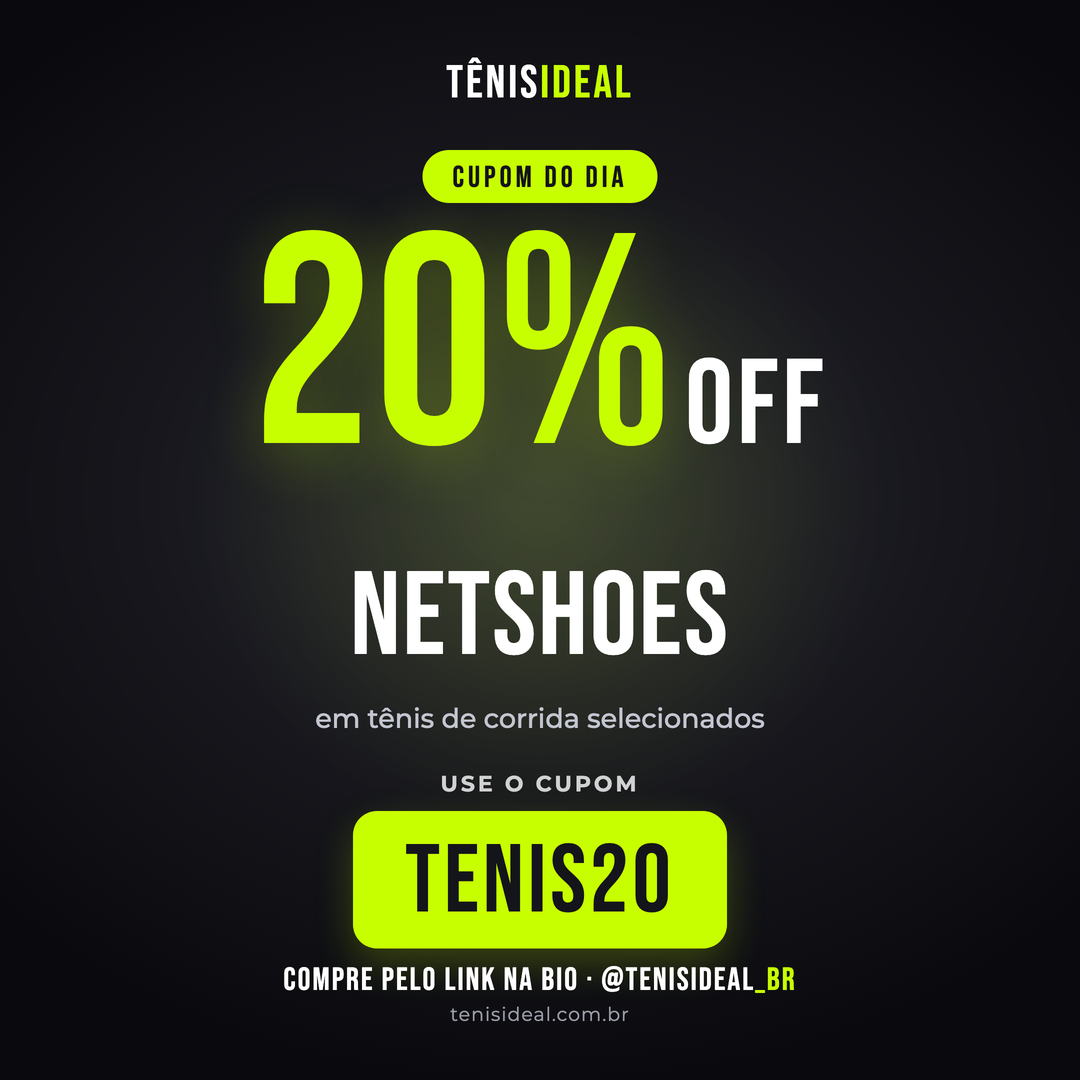
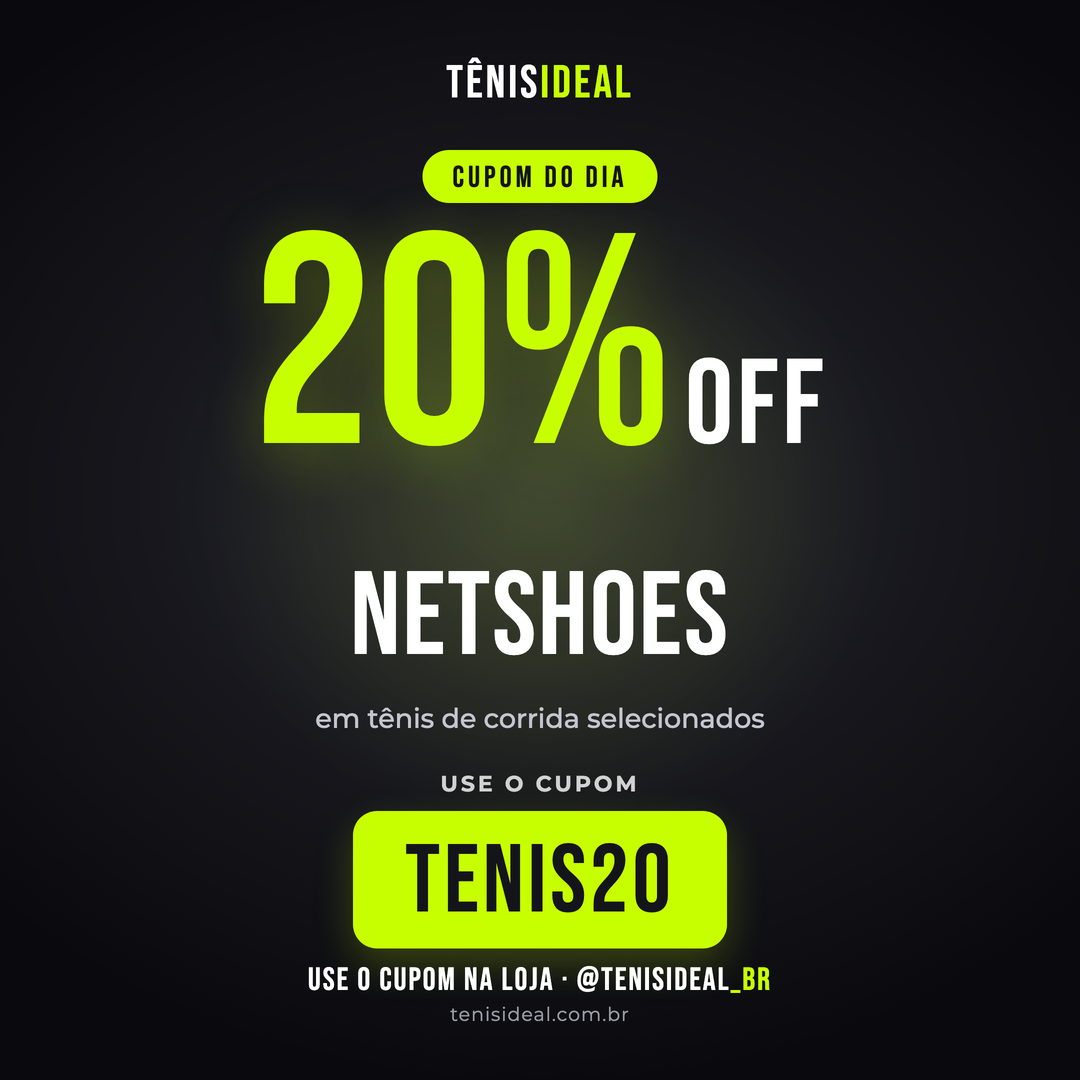
Corrige CTA: site e um QUIZ, nao loja (troca 'Compre' por 'Faca o quiz')
- arte Destaque: botao 'FACA O QUIZ - LINK NA BIO'
- legenda: 'Faca nosso quiz e descubra o tenis ideal' em vez de 'Compre pelo link na bio'
- cupom: rodape 'Use o cupom na loja' em vez de 'Compre pelo link na bio'

Changed region(s): [[0.2444, 0.8861, 0.7333, 0.9167]]

diff --git a/gerar_arte_instagram.py b/gerar_arte_instagram.py
@@ -67,7 +67,7 @@ html,body{width:1080px;height:1080px;}
 <div class="subtitle">@@SUB@@</div><div class="bar"></div></div>
 <div class="price"><div class="lbl">A PARTIR DE</div><div class="val">@@PRICE@@</div></div>
 <div class="shoe-glow"></div><img class="shoe" src="shoe.png">
-<div class="footer"><div class="cta">COMPRE PELO LINK NA BIO</div>
+<div class="footer"><div class="cta">FAÇA O QUIZ • LINK NA BIO</div>
 <div class="handle">@TENISIDEAL<i>_BR</i></div><div class="site">tenisideal.com.br</div></div>
 </div></body></html>"""
 
@@ -201,8 +201,8 @@ def gerar_legenda(s):
         f"🔥 {brand.upper()} {name.upper()} 👟\n\n"
         f"{reason}\n\n"
         f"{linha_preco}\n"
-        f"🛒 Compre pelo link na bio 👉 tenisideal.com.br\n\n"
-        f"📲 Siga @tenisideal_br e descubra o tênis ideal pro seu perfil no nosso quiz!\n\n"
+        f"🔎 Faça nosso quiz e descubra o tênis ideal pro seu perfil — link na bio 👉 tenisideal.com.br\n\n"
+        f"📲 Siga @tenisideal_br pra mais dicas de corrida!\n\n"
         f"#tenisdecorrida #corrida #running #corredores #vidadecorredor "
         f"#{tag} #tenisideal #tenis #corridaderua"
     )